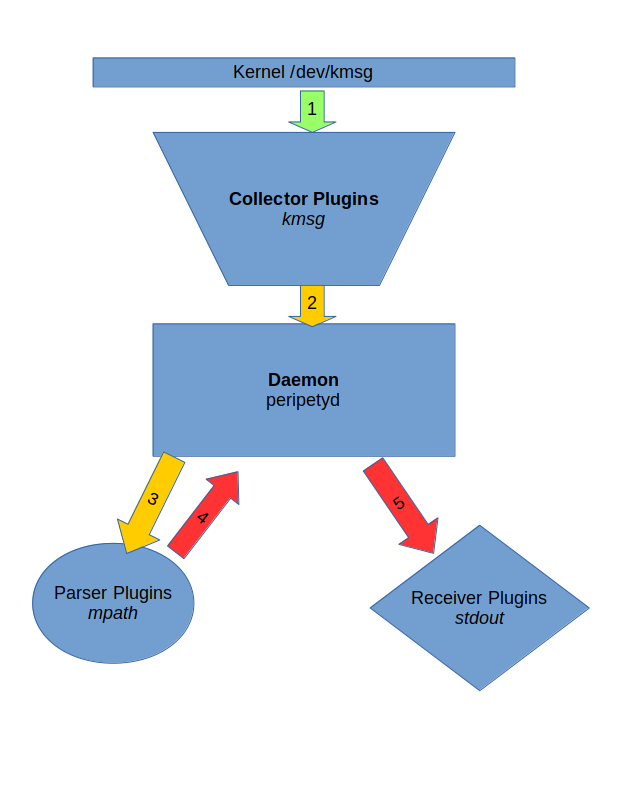
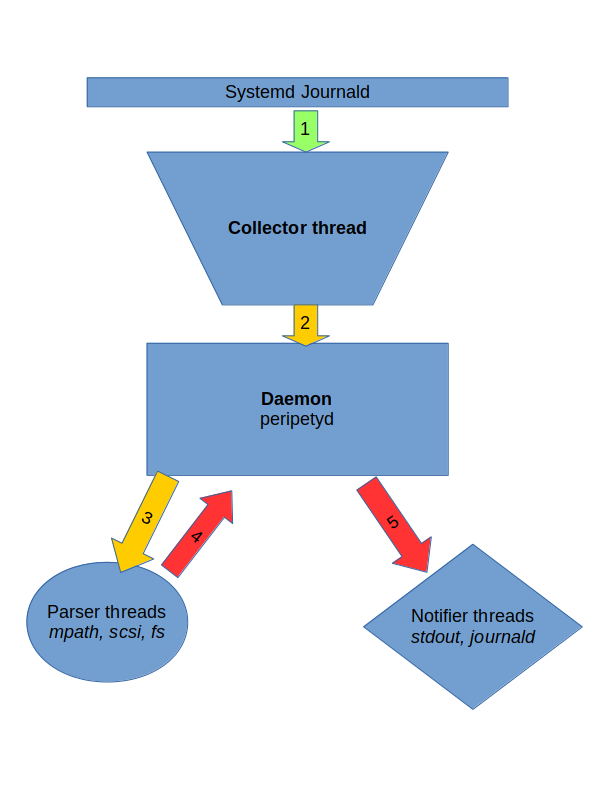
Update readme.

Changed region(s): [[0.03, 0.0625, 0.96, 0.9062], [0.42, 0.4688, 0.57, 0.5312]]

diff --git a/README.md b/README.md
@@ -6,9 +6,9 @@
         * [Why this tool is better?](#why-this-tool-is-better)
     * [How-to](#how-to)
     * [Event format](#event-format)
-    * [Plugin types](#plugin-types)
+    * [Thread types](#thread-types)
     * [Workflow](#workflow)
-    * [Plugin conf](#plugin-conf)
+    * [Plugin conf (TODO)](#plugin-conf-todo)
 
 <!-- vim-markdown-toc -->
 
@@ -39,9 +39,6 @@
 make
 make run
 
-# Then open another terminal to check on daemon's notification.
-make run_stdout
-
 # Then open another terminal to generate some storage errors
 make test
 ```
@@ -58,6 +55,10 @@ make test
     "event_type":           "string_like DM_MPATH_PATH_DOWN",
     "dev_wwid":             "wwid_of_device_related",
     "dev_name":             "device_name",
+    "dev_path":             "device_path in /dev/ folder",
+    "owners_wwids":         ["wwids of owner devices"]
+    "owners_names":         ["names of owner devices"]
+    "owners_paths":         ["paths of owner devices"]
     "msg":                  "human_readable_message",
     "extentions":           {
         "plugin_specifc_1":     "value_1",
@@ -67,63 +68,60 @@ make test
 }
 ```
 
-## Plugin types
+## Thread types
 * **Collector**
 
-  Collects raw events.
-  For a raw event, `dev_id` might be missing but `dev_name` might not
+  Collects raw events from journald.
+  For a raw event, `dev_wwid` might be missing and `dev_name` might not
   be human friendly (for example, a SCSI disk event might have `dev_name`
   "4:0:0:1").
-
-  Examples: `udev` and `kmsg` plugins.
+  TODO: Allows use to extend regex used for parsing journals.
 
 * **Parser**
 
   Parses both raw and synthetic events then generates synthetic events for
-  receivers.
+  collectors.
   For the generated synthetic events the parser must provide a valid and
-  consistent `dev_id` and human-friendly `dev_name` value.
+  consistent `dev_wwid` and human-friendly `dev_name` value.
   Restricts the events it parses to an appropriate subset using a filter.
 
-  Examples: `multipath`, `scsi`, `block`, `fs`, and `mdraid` plugins.
+  Examples: `mpath`, `scsi`, `fs`, and `dm` thread.
 
-* **Receiver**
+* **Notifier**
 
   Listens to all events, and generates appropriate actions.
 
-  Examples: `journald`, `email`, `irc`, etc.
-
-  TODO: Create a receiver plugin to cache data.
+  Examples: `stdout`, `journald`, `email`, `irc`, etc.
 
 ## Workflow
 
 ![work flow](./peripety_design.png)
 
-0. The daemon starts all plugins and establishes socket connections to each
-parser and collector plugin.
+0. The daemon starts all threads.
+1. The `collector` thread collects an event in /dev/kmsg.
+2. The `collector` thread parse the event and sends the raw event to the daemon.
+3. The daemon sends the event to selected parser threads based on their filter
+   settings.
+4. The selected parser plugins process the event and each sends a synthetic
+   event back to the daemon.
+5. The daemon broadcasts all synthetic events to notifier threads.
 
-1. The kernel generates an event in /dev/kmsg.
-2. The `kmsg` collector plugin gathers the event and sends the raw event to the daemon.
-3. The daemon sends the event to selected parser plugins based on their filter settings.
-4. The selected parser plugins process the event and each sends a synthetic event back to the daemon.
-5. The daemon broadcasts all synthetic events to receiver plugins via an IP multicast socket.
-
-## Plugin conf
+## Plugin conf (TODO)
 
 ```toml
 [main]
-receiver_bind_ip = "127.0.0.1"
-receiver_multicast_ip = "239.0.0.1"
-receiver_multicast_port = "6000"
 
-[kmsg]
-type = "collector"
-
-[mpath]
-type = "parser"
-filer_system = "dm"     # Only send dm event to this plugin.
-filer_type = "raw"      # Only send raw event to this plugin.
-
-[jounal]
-type = "receiver"
+[[collector_regexs]]
+# This regex is already build-in.
+starts_with = "device-mapper: multipath:"
+regex = '''
+(?x)
+        ^device-mapper:\s
+        multipath:\ Failing\ path\s
+        (?P<kdev>\d+:\d+).$
+'''
+# `kdev` naming capture group is mandatory.
+# `sub_system` naming capture group is optional.
+sub_system = "multipath",
+event_type = "DM_MPATH_PATH_FAILED",
 ```
